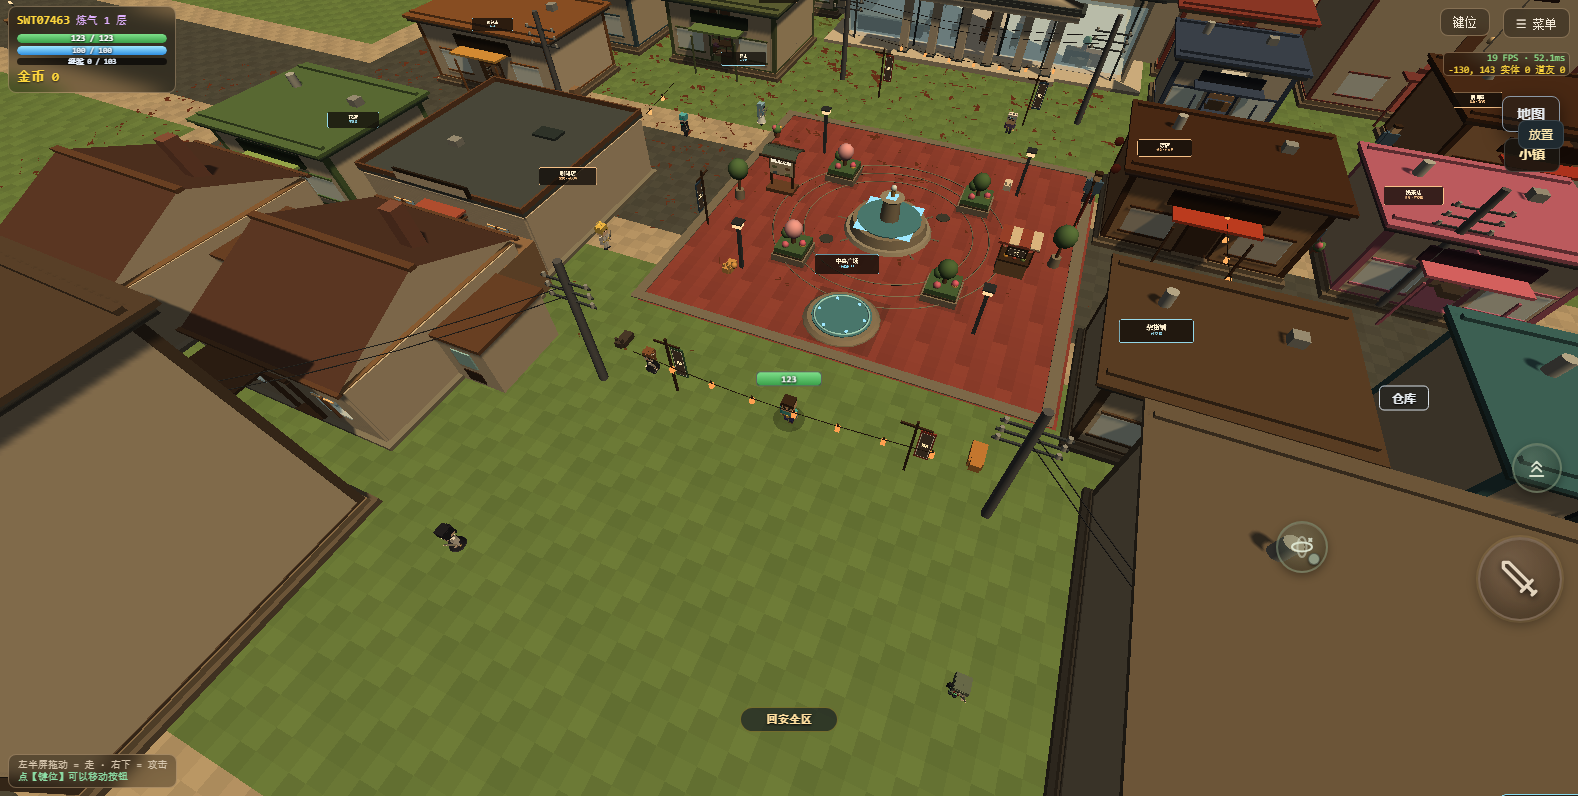
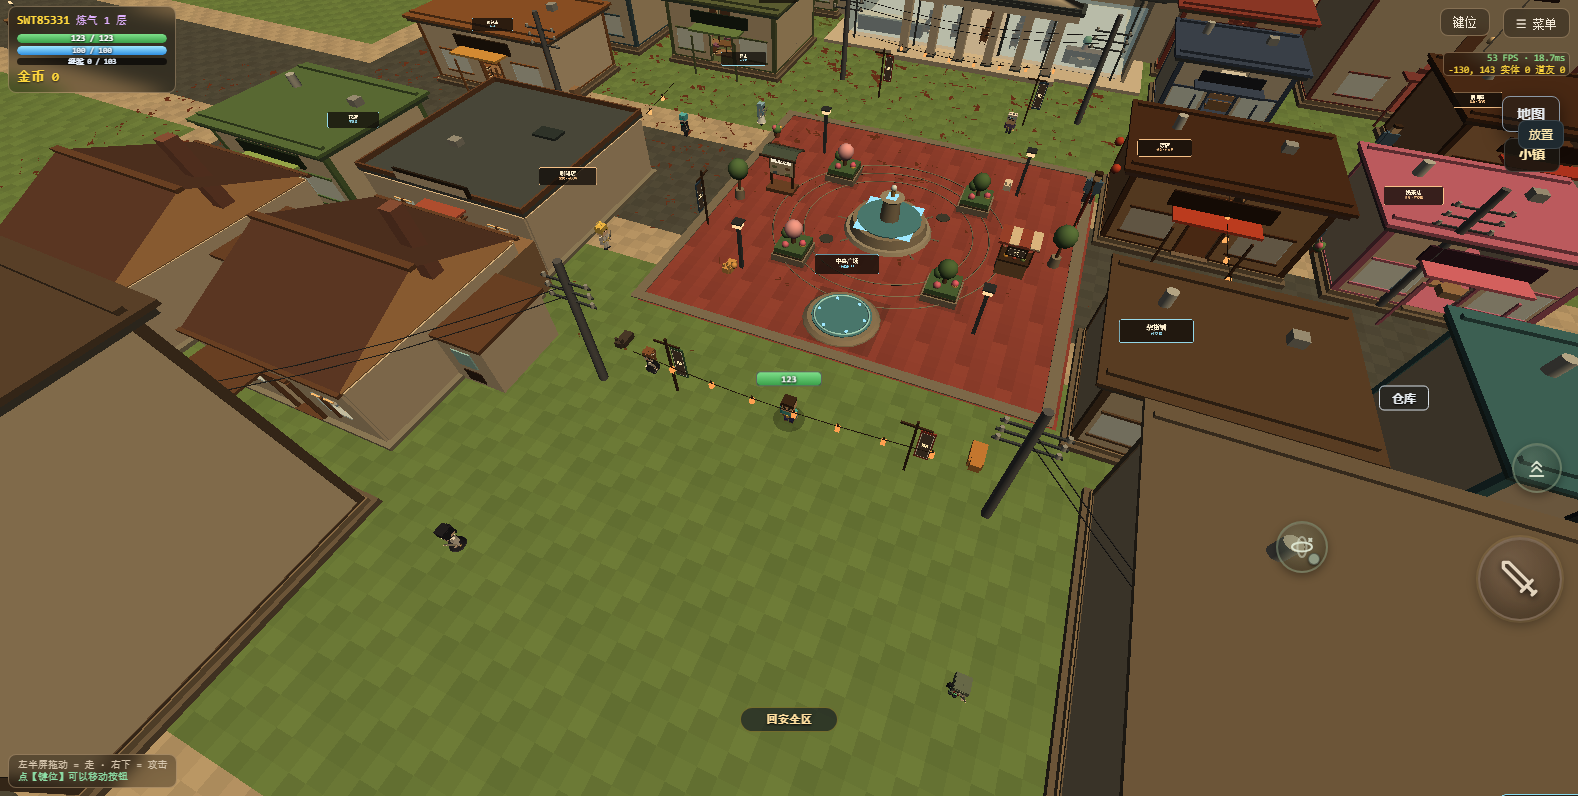
each placed model merges its parts before it reaches the scene

diff --git a/web/platform/place.js b/web/platform/place.js
@@ -71,6 +71,26 @@
       return g0;
     }
     var g = buildTownModel(spec, {});
+    return batchModel(g);
+  }
+
+  /* ★ C4：每个放置物建完先合批（同材质类合并成 1~3 个网格）
+     否则 309 个物件 = 3000+ 个 mesh / 700+ draw call。
+     复用 static 镇那套合批器，但把 TOWN_STATS 原样还回去（它会被合批函数改写）。 */
+  function batchModel(g) {
+    try {
+      if (typeof townBatchStatic !== 'function') { return g; }
+      var keep = null;
+      if (typeof TOWN_STATS !== 'undefined' && TOWN_STATS) {
+        keep = { i: TOWN_STATS.instanced, m: TOWN_STATS.meshes,
+                 g: TOWN_STATS.merged, k: TOWN_STATS.kept };
+      }
+      townBatchStatic(g);
+      if (keep) {
+        TOWN_STATS.instanced = keep.i; TOWN_STATS.meshes = keep.m;
+        TOWN_STATS.merged = keep.g; TOWN_STATS.kept = keep.k;
+      }
+    } catch (e) { }
     return g;
   }
 

diff --git a/tools/profile_client.py b/tools/profile_client.py
@@ -117,13 +117,13 @@ class CDP:
         return (res.get('result') or {}).get('value')
 
 
-async def profile(token):
+async def profile(token, suffix=''):
     port = random.randint(10600, 10699)
     prof = tempfile.mkdtemp(prefix='prof-')
     proc = subprocess.Popen(
         [CHROME, '--headless=new', '--disable-gpu', '--no-sandbox', '--no-first-run',
          '--mute-audio', '--user-data-dir=' + prof, '--remote-debugging-port=%d' % port,
-         '--window-size=1600,950', ORIGIN + '/'],
+         '--window-size=1600,950', ORIGIN + '/' + (suffix or '')],
         stdout=subprocess.DEVNULL, stderr=subprocess.DEVNULL)
     try:
         target = None
@@ -225,7 +225,8 @@ def main():
     reg = http_json('/api/register', {'name': name, 'password': 'e2e-pass-123'})
     print('test role:', name)
     try:
-        asyncio.run(profile(reg['token']))
+        suffix = sys.argv[1] if len(sys.argv) > 1 else ''
+        asyncio.run(profile(reg['token'], suffix))
     finally:
         for _ in range(40):
             if not http_json('/api/health')['world'].get('online'):

diff --git a/docs/画面与性能方案.md b/docs/画面与性能方案.md
@@ -2432,3 +2432,19 @@ tools/test_pen_meaning.py
 真正稳定的是 `renderer.info.render.triangles`：**201 万 → 54 万**，跨 5 次采样一致。
 
 截图：`docs/shots/perf-c4.png`（红砖广场 / 灰路 / 绿地砖的颜色和格子都在）。
+
+
+### C4 续：放置物逐个合批（2026-10-22）
+
+对象镇预览（309 个放置物）暴露了第二个大问题：`place.js` 每个对象都是几十个独立 mesh。
+在 `buildMesh()` 之后调用 `batchModel()`（复用 `townBatchStatic`，但把 `TOWN_STATS` 原样还回去）：
+
+| 指标（对象镇预览） | 合批前 | 合批后 |
+|---|---:|---:|
+| placedObjects mesh | 3,032 | 339 |
+| draw call | 720 | 452 |
+| 场景三角 | 456,012 | 456,012（外观不变）|
+| FPS（无头采样） | 34 | 53~61 |
+
+合批后 309 个对象 + 旧主城地面/路灯同屏，draw call 452，已经回到可接受范围；
+外观截图 `docs/shots/town-switch-new.png` 与合批前一致，无 JS 异常。
